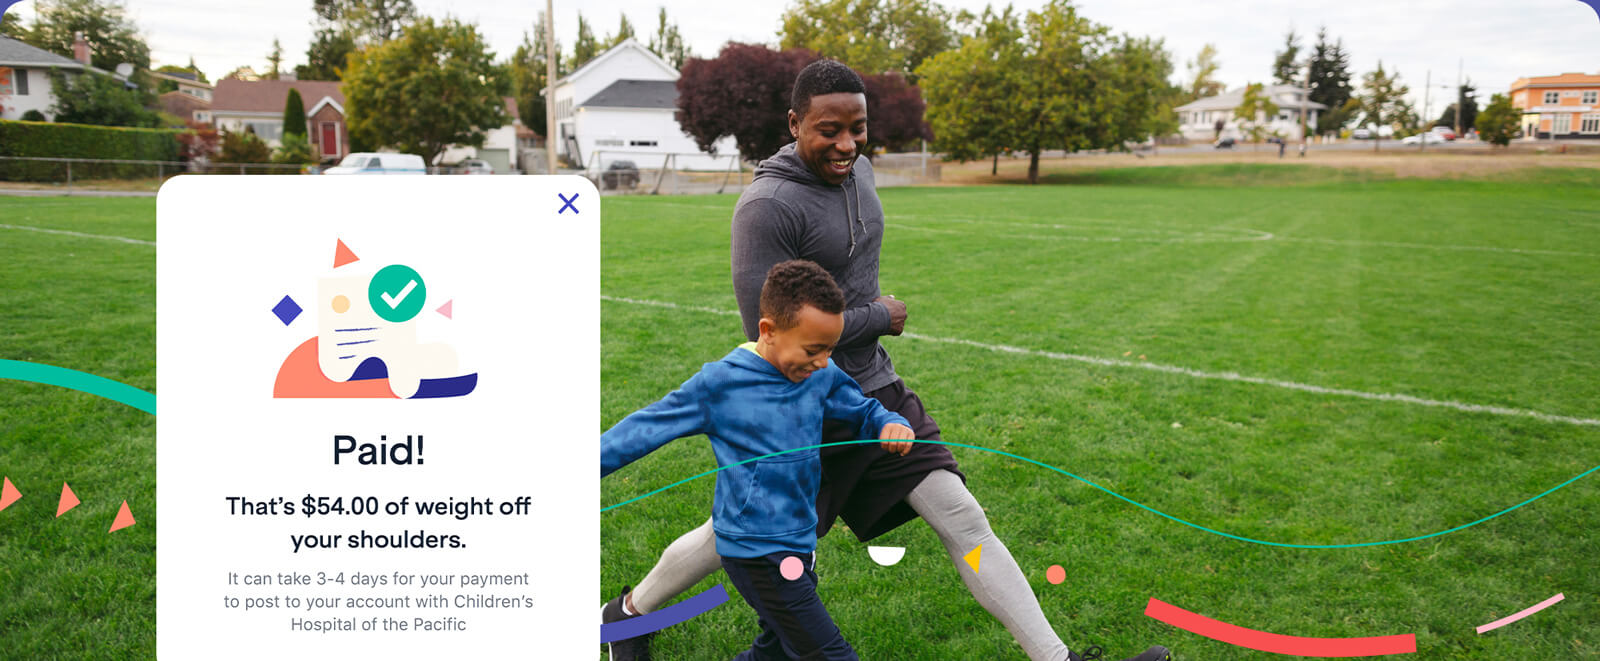
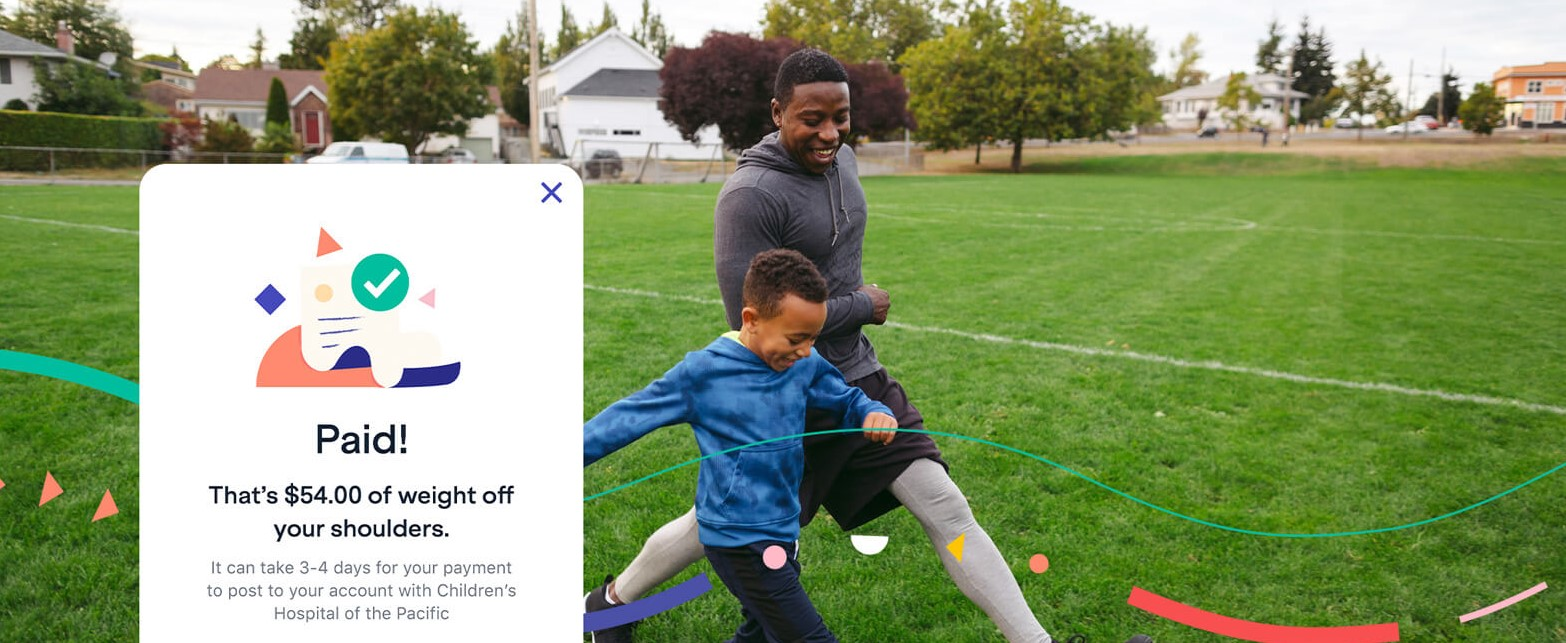
css fix

diff --git a/index.html b/index.html
@@ -1,21 +1,21 @@
 <!DOCTYPE html>
 <html lang="en">
 <head>
-    <link rel="shortcut icon" href="../images/logo.png" type="image/x-icon"/>
+    <link rel="shortcut icon" href="images/logo.png" type="image/x-icon"/>
     <meta charset="UTF-8">
     <meta http-equiv="X-UA-Compatible" content="IE=edge">
     <meta name="viewport" content="width=device-width, initial-scale=1.0">
     <title>PayGround</title>
-    <link rel="stylesheet" href="../css/styles_Exercise2.css">
+    <link rel="stylesheet" href="css/styles_Exercise2.css">
 </head>
 <body>
     <div class="back">
         <nav class="navigation"> 
-            <img src="../images/logo_name.svg" alt="logo" /> 
+            <img src="images/logo_name.svg" alt="logo" /> 
             <div class="nav">
-                <a href="../html/CSS_Exercise_1.html"><p>Exercise I</p></a>
-                <a><div class="drop"><p>I'm a medical provider</p> <img src="../images/dropdown.svg" alt="dropdown" /></div> </a>
-                <a><div class="drop"><p>More </p><img src="../images/dropdown.svg" alt="dropdown" /></div></a>
+                <a href="html/flag.html"><p>Exercise I</p></a>
+                <a><div class="drop"><p>I'm a medical provider</p> <img src="images/dropdown.svg" alt="dropdown" /></div> </a>
+                <a><div class="drop"><p>More </p><img src="images/dropdown.svg" alt="dropdown" /></div></a>
             </div>
             <div class="btn">
                 <a><button class="btn1">Log in</button></a>
@@ -33,23 +33,23 @@
                     <p>place.</p>
                 </div>
                 <div>
-                    <img src="../images/image_1.png" alt="image" />
+                    <img src="images/image_1.png" alt="image" />
                 </div>   
             </div>
             <div class="svg">
-                <img src="../images/background.svg" alt="background" />
+                <img src="images/background.svg" alt="background" />
             </div> 
             <div class ="body2">
                 <div class="phone">
-                    <img src="../images/image_2.png" alt="phone" />
+                    <img src="images/image_2.png" alt="phone" />
                 </div>
                 <div class="sidecontent">
                     <h1>Pay bills on your time with </h1>
                     <h1>one simple login</h1>
                     <p>Easily manage payments to multiple providers and reduce </p>
                     <p>stress around medical bills.</p>
-                    <img src="../images/appstore.svg"/>
-                    <img src="../images/googleplay.svg" />
+                    <img src="images/appstore.svg"/>
+                    <img src="images/googleplay.svg" />
                 </div>
             </div>
             <div class="title">
@@ -59,9 +59,9 @@
                 <p>phone waits.</p> 
             </div>
             <div class="testimonial">
-                <div class="box"><img src="../images/quotationmark.svg" alt="qoutation"> <p>I have my hands full with two little ones, and viewing and paying our medical bills on the go and with a couple of clicks has been a game changer!</p> <p>– Aimee L., PayGround user</p></div>
-                <div class="box"><img src="../images/quotationmark.svg" alt="qoutation"> <p>The app led me through the process in a very straightforward way. It guided me from entering provider information all the way to submitting my payment in three easy steps!</p><p>– Mike B., PayGround user</p></div>
-                <div class="box"><img src="../images/quotationmark.svg" alt="qoutation"> <p>PayGround is so easy to use, and has made paying healthcare bills for all my family's various providers so much more efficient.</p><p>– Shelby B., PayGround user</p></div>
+                <div class="box"><img src="images/quotationmark.svg" alt="qoutation"> <p>I have my hands full with two little ones, and viewing and paying our medical bills on the go and with a couple of clicks has been a game changer!</p> <p>– Aimee L., PayGround user</p></div>
+                <div class="box"><img src="images/quotationmark.svg" alt="qoutation"> <p>The app led me through the process in a very straightforward way. It guided me from entering provider information all the way to submitting my payment in three easy steps!</p><p>– Mike B., PayGround user</p></div>
+                <div class="box"><img src="images/quotationmark.svg" alt="qoutation"> <p>PayGround is so easy to use, and has made paying healthcare bills for all my family's various providers so much more efficient.</p><p>– Shelby B., PayGround user</p></div>
             </div>
             <div class="title">
                 <h1>Why pay with PayGround?</h1> 
@@ -69,15 +69,15 @@
                 <p>managing medical bills off your shoulders.</p> 
             </div>
             <div class="row">
-                <div><img src="../images/time.svg" alt="qoutation"> <h1>Save time.</h1><br> <p>Pay medical bills from multiple providers in one place and on your time.</p></div>
-                <div><img src="../images/phone2.svg" alt="qoutation"> <h1>Rest easy.</h1><br><p>View and pay bills with just a few clicks on our simple and secure mobile app. The app is free to use!</p></div>
-                <div><img src="../images/calender.svg" alt="qoutation"> <h1>Stress less.</h1><br><p>Schedule payments, view invoices, and track billing history in your digital dashboard.</p></div>
+                <div><img src="images/time.svg" alt="qoutation"> <h1>Save time.</h1><br> <p>Pay medical bills from multiple providers in one place and on your time.</p></div>
+                <div><img src="images/phone2.svg" alt="qoutation"> <h1>Rest easy.</h1><br><p>View and pay bills with just a few clicks on our simple and secure mobile app. The app is free to use!</p></div>
+                <div><img src="images/calender.svg" alt="qoutation"> <h1>Stress less.</h1><br><p>Schedule payments, view invoices, and track billing history in your digital dashboard.</p></div>
             </div>
             <div class="frame">
                 <h2>Healthcare payments made easy.<sup>TM</sup></h2>
                 <p>A secure way to manage, track, and pay–so you can focus on the good stuff.</p>
                 <button class="btn3">Get Payground</button>
-                <img src="../images/image_3.jpg" alt="payment"/>
+                <img src="images/image_3.jpg" alt="payment"/>
             </div>
             <div class="body">
                 <div class="txt2">
@@ -92,7 +92,7 @@
                 </div>
                 <div>
                     
-                    <img src="../images/image_4.jpg" alt="image" />
+                    <img src="images/image_4.jpg" alt="image" />
                 </div>   
             </div>
             
@@ -100,7 +100,7 @@
     </div>
     <footer>
         <div class="logoname">
-            <img src="../images/logo_name.svg" alt="logo" style="background-color: tansparent"/>        
+            <img src="images/logo_name.svg" alt="logo" style="background-color: tansparent"/>        
         </div>
         
         <div class="bottom">
@@ -108,8 +108,8 @@
                 <h3>Pay with PayGround</h3> 
                 <p>PayGround is available for free on</p>
                 <p>popular mobile app stores.</p> 
-                <img src="../images/appstore.svg"/><br>
-                <img src="../images/googleplay.svg" /><br>
+                <img src="images/appstore.svg"/><br>
+                <img src="images/googleplay.svg" /><br>
                 <a href="">Pay with PayGround</a>
                 <br>
             </div>
@@ -140,23 +140,23 @@
                 <p>Gilbert, AZ 85297</p><br>
                 <a href="">hello@payground.com</a><br><br>
                 <a href="">800.385.4556</a><br>
-                <a href=""><img src="../images/facebook.svg" alt="facebook"></a>
-                <a><img src="../images/twitter.svg" alt="twitter"></a>
-                <a><img src="../images/instagram.svg" alt="instagram"></a>
-                <a><img src="../images/linkedin.svg" alt="linkedin"></a>
+                <a href=""><img src="images/facebook.svg" alt="facebook"></a>
+                <a><img src="images/twitter.svg" alt="twitter"></a>
+                <a><img src="images/instagram.svg" alt="instagram"></a>
+                <a><img src="images/linkedin.svg" alt="linkedin"></a>
                 
             </div>
         </div>
         <div class="soc">
 
-            <img src="../images/footer.png" alt="footer">
+            <img src="images/footer.png" alt="footer">
         </div>
         <div class="copy">
             <p >&copy;2022 PayGround.</p>
             <p>Privacy Policy</p>
             <p>Terms of Service</p>
         </div>
-        <div class="fixed"><img src="../images/logo.png"/></div><br><br>
+        <div class="fixed"><img src="images/logo.png"/></div><br><br>
     </footer>
 </body>
 </html>

diff --git a/css/styles_Exercise2.css b/css/styles_Exercise2.css
@@ -1,78 +1,87 @@
 * {
     margin: 0px;
-    position: relative;
-    
+    position: relative;  
+}
+
+.back {
+    background-color: rgb(255, 249, 240,0.3);
 }
 
 .navigation {
     display: flex;
     flex-direction: row;
-    align-items:flex-end; 
-    margin: 20px;
+    padding: 20px;
+    align-items:center; 
     justify-content: space-between;
-    
 }
 
-.navigation img {
-    width: 25px;
-    height: 25px;
+.nav {
+    margin-right: 200px;
 }
 
-.navigation p {
-    font-size: large;
-    font-weight: 600;
+.nav a{
+    color: black;
+    text-decoration: none;
+    margin-left: 30px;
+    margin-right: 35px;
+    font-size: 23px;
+    font-weight: 50;
+    display: inline-block;
+    font-family:serif;
 }
 
-.navigation section {
+.nav a:hover {
+    color:blueviolet;
+    opacity: 0.5;
+}
+
+.nav a img:hover {
+    transform: rotate(180deg);
+}
+
+.nav a img {
+    width: 30px;
+    height: 30px;
+}
+.navigation > img {
+    width: 300px;
+    height: 100px;
+}
+.drop{
     display: flex;
+    gap: 4px;
     align-items: center;
-    /* margin-right: 15px; */
-}
-
-.payground{
-    display: flex;
-    align-items:flex-end;
-}
-
-.payground > img {
-    width: 50px;
-    height: 50px;
-    align-items:flex-end;
-}
-.payground p {
-    font-size: 50px;
-    font-weight: 700;
-}
-
-.dropdown{
-    display: flex;
 }
 
 .body {
-    margin-top: 100px;
+    margin: 40px 70px 0px 70px;
     display: flex;
     flex-direction: row;
     flex-wrap: wrap;
-    padding-left: 70px;
-    align-items: center;
     justify-content: space-between;
+    position: relative;
 }
 
-.body h1 {
+.body content {
+    padding-top: 30px;
+    position: absolute;
+    top: 30px;
+}
+.body h2 {
     font-size: 70px;
+    font-family:'Lucida Sans', 'Lucida Sans Regular', 'Lucida Grande', 'Lucida Sans Unicode', Geneva, Verdana, sans-serif;
+    font-weight: 400;
 }
-
 .body p {
     font-size: 25px;
 }
-
 .body > div {
-    margin-right: 70px;
+    margin-right: 40px;
 }
 
 .body img {
     width: 40vw;
-    height: 85vh;
+    height: 80vh;
     border-radius: 30px;
 }
 
@@ -110,7 +119,7 @@
 }
 .btn1{
     font-size: 17px;
-    width: 90px;
+    width: 100px;
     height: 50px;
     border-radius: 10px;
     background-color: transparent;
@@ -119,10 +128,10 @@
 
 .btn2 {
     font-size: 17px;
-    width: 150px;
+    width: 180px;
     height: 50px;
     border-radius: 10px;
-    background-color: rgb(27, 27, 115);
+    background-color: rgb(45, 45, 134);
     margin-left: 10px;
     color: white;
     cursor: pointer;

diff --git a/html/flag.html b/html/flag.html
@@ -5,7 +5,7 @@
     <meta http-equiv="X-UA-Compatible" content="IE=edge">
     <meta name="viewport" content="width=device-width, initial-scale=1.0">
     <title>CSS EXercise-1</title>
-    <link rel="stylesheet" href="./styles_Exercise1.css">
+    <link rel="stylesheet" href="../css/styles_Exercise1.css">
 </head>
 <body>
     <h1>Ethiopia</h1>
